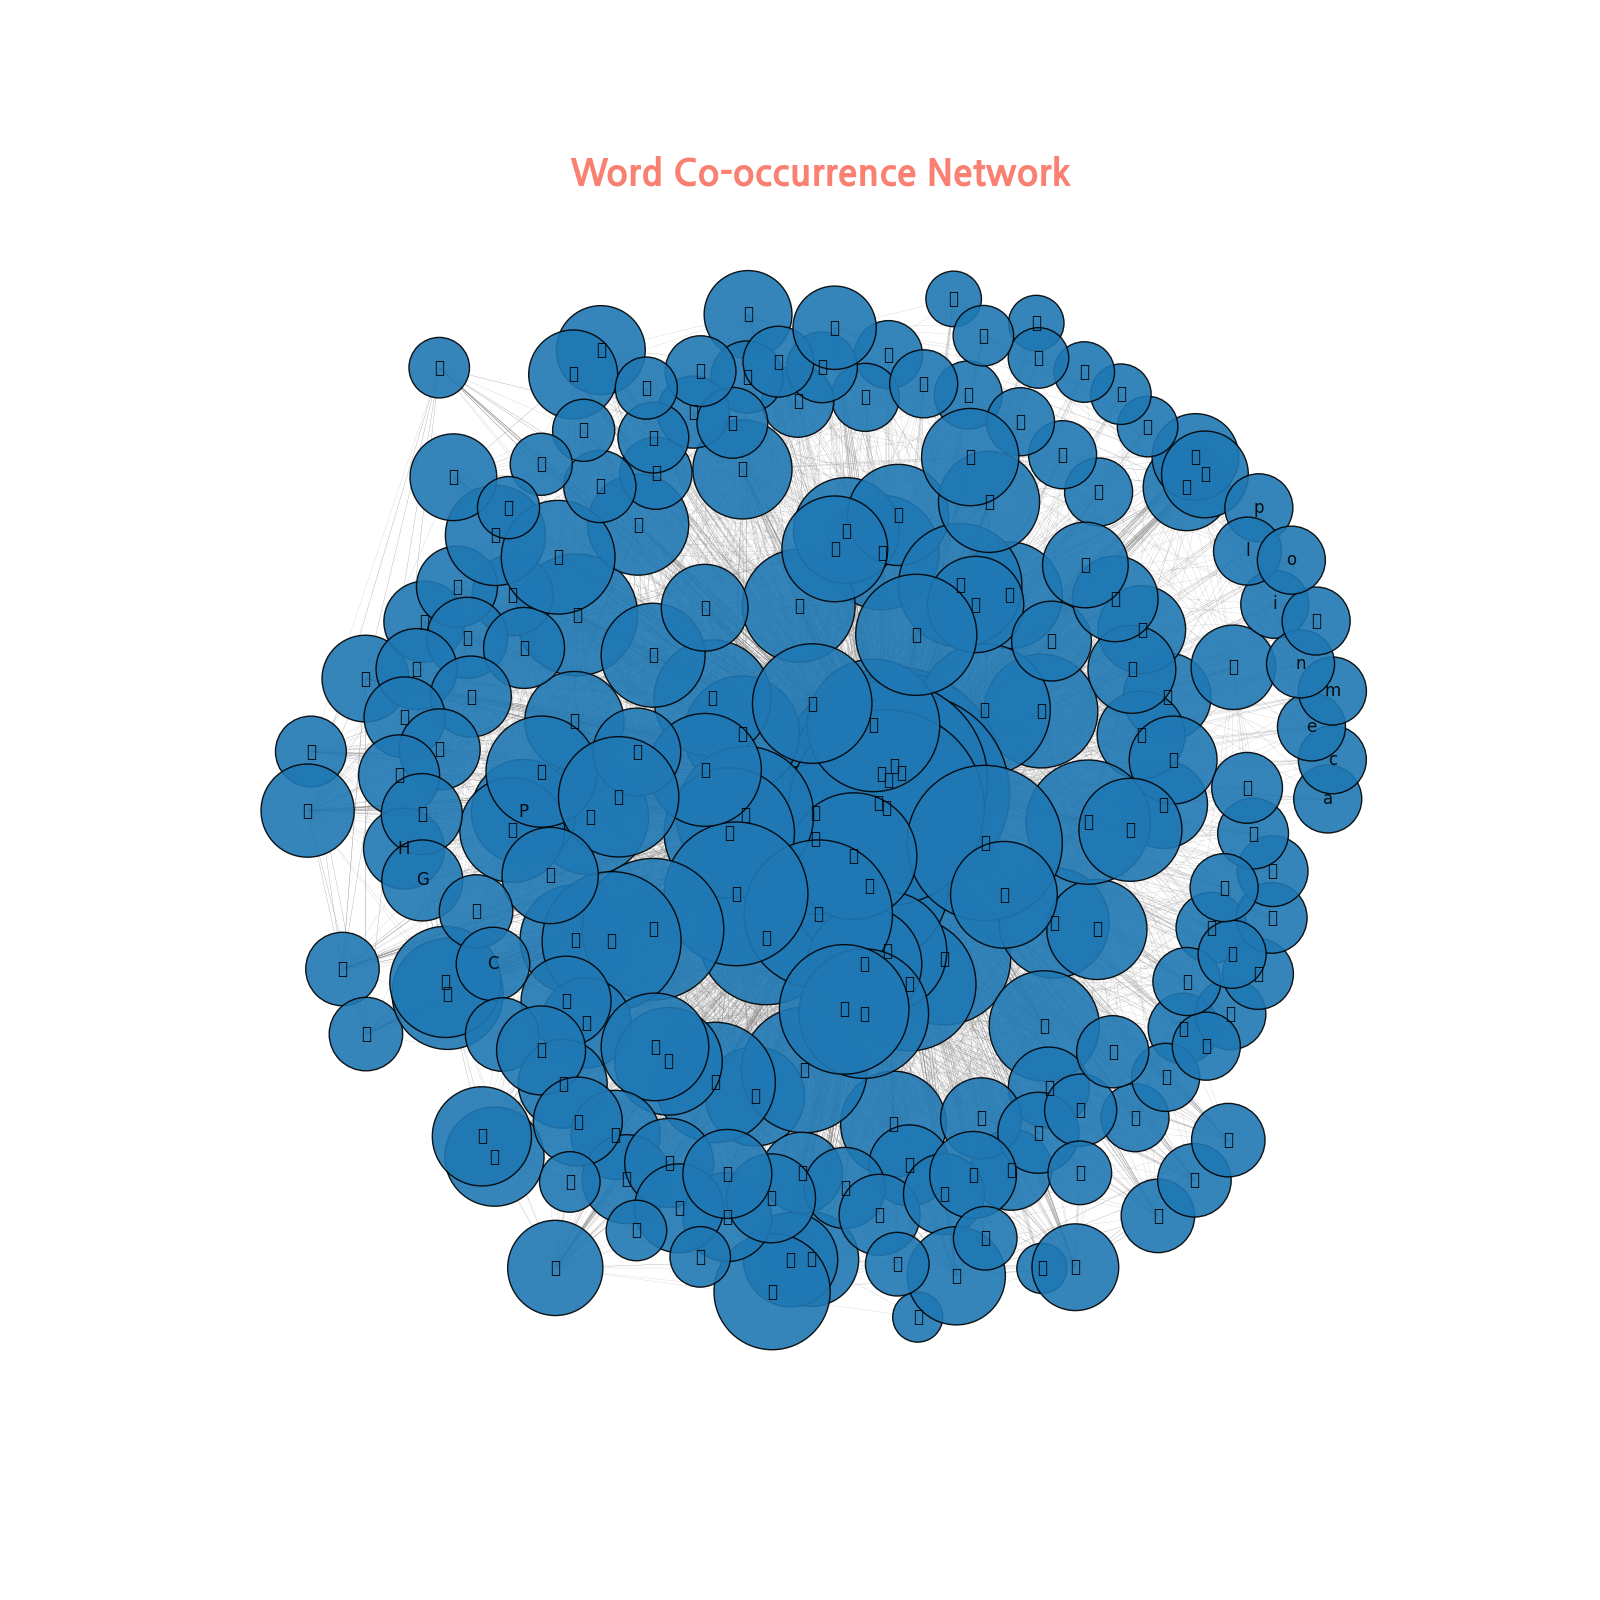
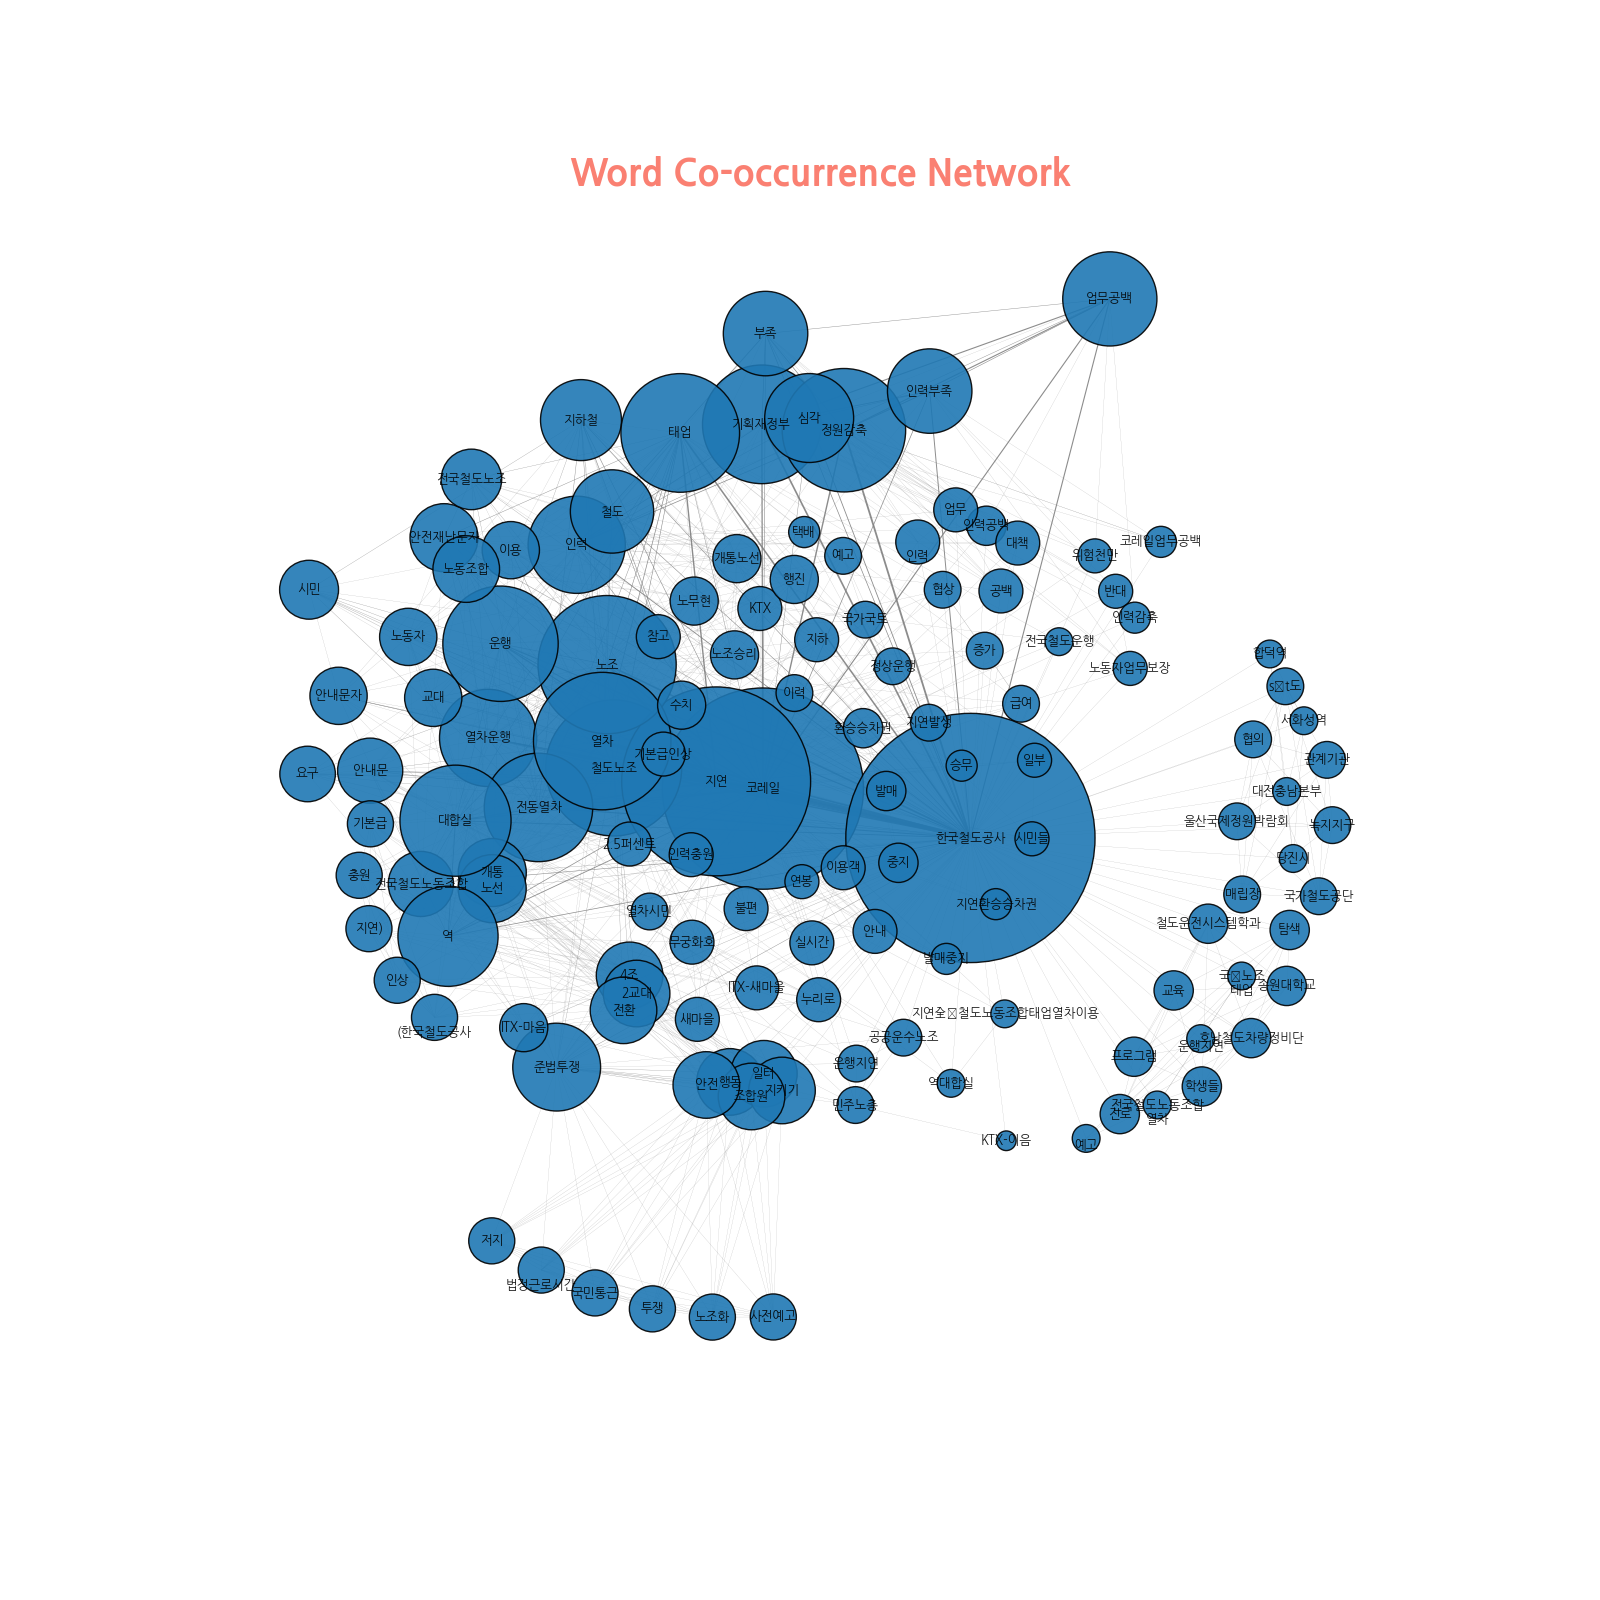
Fix : Figure font error

Changed region(s): [[0.1562, 0.1562, 0.875, 0.8438]]

diff --git a/visualization/make_wordcloud.py b/visualization/make_wordcloud.py
@@ -1,9 +1,20 @@
 from wordcloud import WordCloud, STOPWORDS
 from matplotlib import font_manager, rc
+from matplotlib import font_manager as fm
 import matplotlib.pyplot as plt
 import numpy as np
 from PIL import Image
 import platform
+import os
+
+font_path = "/usr/share/fonts/truetype/nanum/NanumGothic.ttf"
+if os.path.exists(font_path):
+    font_name = fm.FontProperties(fname=font_path).get_name()
+    plt.rc('font', family=font_name)
+else:
+    print(f"Font file not found: {font_path}")
+
+plt.rcParams['axes.unicode_minus'] = False
 
 #TF-IDF(Term Frequency-Inverse Document Frequency)를 이용한 워드클라우드 생성
 def word_cloud(all_data : list):
@@ -22,14 +33,18 @@ def word_cloud(all_data : list):
     stopwords = set(STOPWORDS)
     stopwords.add('한국철도공사')
     
+    text = ' '.join([f"{word} " * int(freq * 10) for word, freq in wc.items()])
     wordcloud = WordCloud(background_color= 'white',
-                          font_path='NanumGothic.ttf',
+                          #font_path='NanumGothic.ttf',
+                          font_path = font_path,
                           max_words=200,
                           stopwords=stopwords,
-                          )
-    wordcloud.generate_from_frequencies(wc)
+                          ).generate(text)
+    #wordcloud.generate_from_frequencies(wc)
     
     plt.figure(figsize=(20, 20))
+    #plt.rcParams['font.size'] = 10
+    #plt.rcParams['font.family'] = 'NanumGothic'
     plt.imshow(wordcloud, interpolation='bilinear')
     plt.axis('off')
     plt.savefig('./image/wordcloud.png')

diff --git a/visualization/cocurrence.py b/visualization/cocurrence.py
@@ -35,8 +35,15 @@ import re
 import re
 import networkx as nx
 
-#plt.rcParams['font.family'] = 'NanumGothic'
-#plt.rcParams['axes.unicode_minus'] = False
+# NanumGothic 폰트 설정
+font_path = "/usr/share/fonts/truetype/nanum/NanumGothic.ttf"
+if os.path.exists(font_path):
+    font_name = fm.FontProperties(fname=font_path).get_name()
+    plt.rc('font', family=font_name)
+else:
+    print(f"Font file not found: {font_path}")
+
+plt.rcParams['axes.unicode_minus'] = False
 
 def cocurrence_network(start_date, end_date, all_data):
     data_for_date = []
@@ -60,14 +67,26 @@ def cocurrence_network(start_date, end_date, all_data):
     d = dict(nx.degree(G))
     edges = G.edges()
     weights = [G[u][v]['weight']/10 for u,v in edges]
+    
+    # 노드 가중치 합 계산
+    node_weights = {
+        node: sum(data['weight'] for _, _, data in G.edges(node, data=True))
+        for node in G.nodes()
+    }
+
+    # 노드 크기 설정 (가중치 합에 비례)
+    node_size = [weight * 100 for weight in node_weights.values()]
 
     nx.draw(G, pos_kkl, 
             with_labels=True, 
-            node_size=[v * 100 for v in d.values()],
+            #node_size=[v * 50 for v in d.values()],
+            node_size=node_size,
             nodelist=d.keys(),  
             width=weights, 
             edge_color='grey', #node_color=list(df_skills_stats['core_number']), cmap="coolwarm_r", 
             alpha=0.9,
+            font_family='NanumGothic',
+            font_size=9,
         )
 
     # Set title

diff --git a/visualization/Top10.py b/visualization/Top10.py
@@ -5,22 +5,26 @@ import matplotlib.pyplot as plt
 import matplotlib as mpl
 from matplotlib import font_manager, rc
 import matplotlib.font_manager as fm
+import os
 
-mpl.use('Agg')
-# 한글 폰트 설정
-plt.rc('font', family='NanumGothic')
-plt.rc('axes', unicode_minus=False)
-#font_path = "NanumGothic.ttf"
-#font_prop = fm.FontProperties(fname=font_path)
-#plt.rcParams["font.family"] = font_prop.get_name()
-#plt.rcParams['axes.unicode_minus'] = False
+font_path = "/usr/share/fonts/truetype/nanum/NanumGothic.ttf"
+if os.path.exists(font_path):
+    font_name = fm.FontProperties(fname=font_path).get_name()
+    plt.rc('font', family=font_name)
+else:
+    print(f"Font file not found: {font_path}")
+
+plt.rcParams['axes.unicode_minus'] = False
 
 def top10(all_data : list):
     df = pd.DataFrame(all_data)
     sns.set()
     plt.figure(figsize=(15,5))
+    plt.rcParams['font.size'] = 10
+    plt.rcParams['font.family'] = 'NanumGothic'
     ax = sns.barplot(x='num', y='keyword',
-                     data=df.sort_values(by='num', ascending=False).head(10))
+                     data=df.sort_values(by='num', ascending=False).head(10),
+                     )
     ax.set_title('Top 10 Keywords')
     ax.set(xlabel='Overall', ylabel='Keyword')
     

diff --git a/main.py b/main.py
@@ -49,7 +49,7 @@ def main():
                 keyword2list = make_list(keywords)
         
                 update_db(keyword2list, date, all_data_list, collection)
-                update_network_db(keywords, date, all_pairs_list, collection1)
+                update_network_db(keyword2list, date, all_pairs_list, collection1)
                 
         elif select == '2':
             top10(all_data_list)
